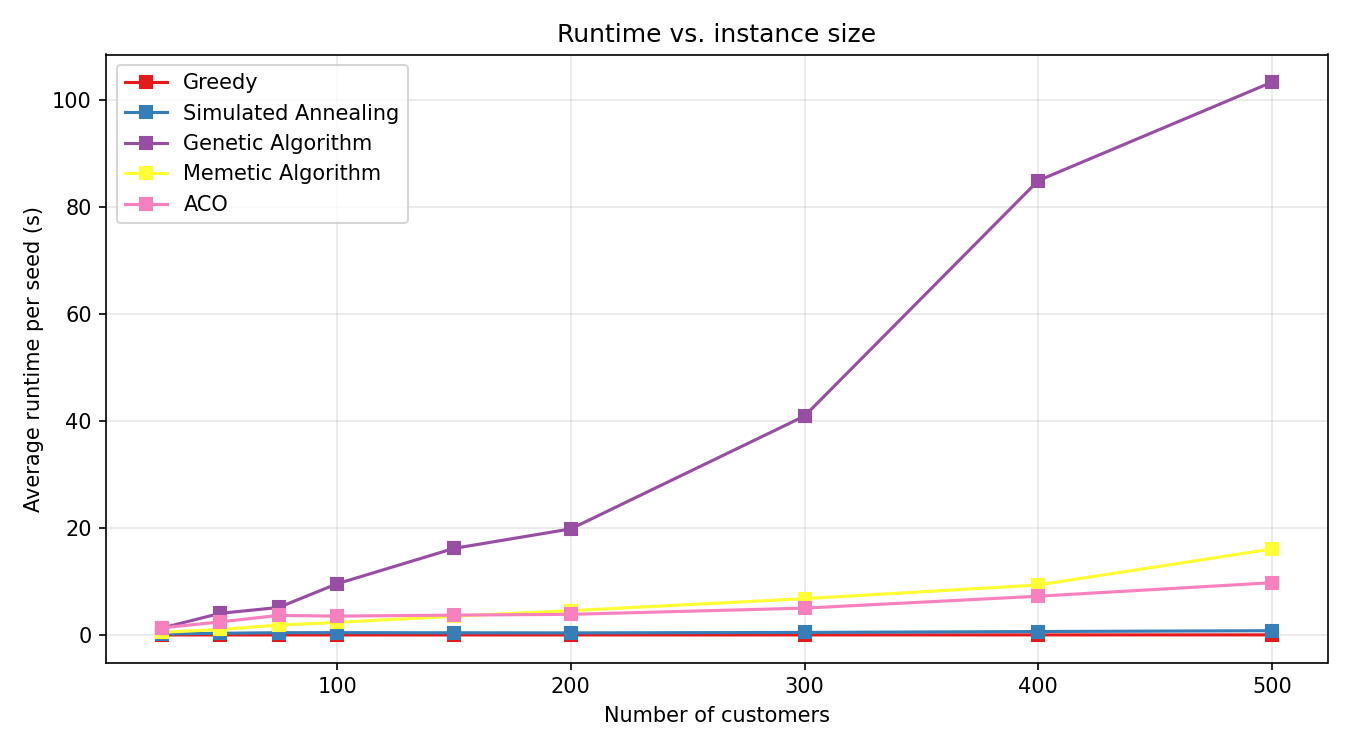
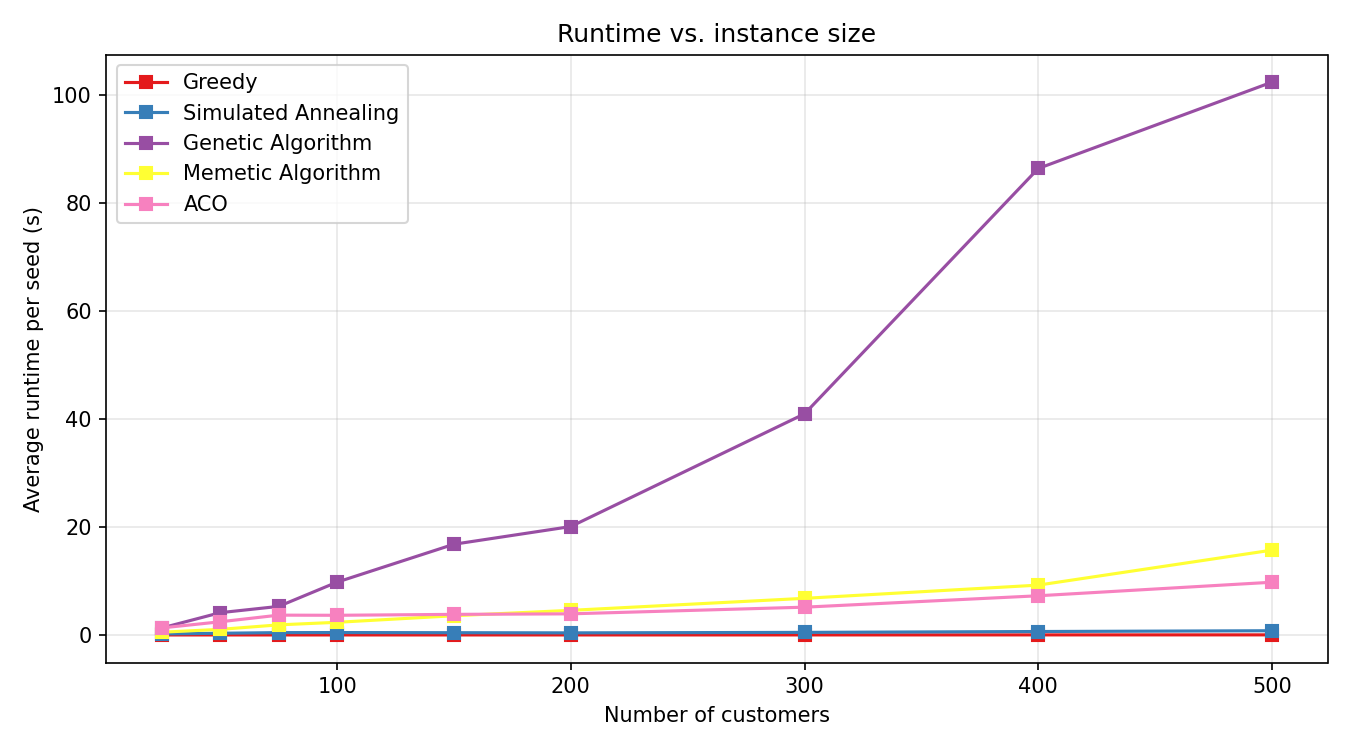
improved

diff --git a/EV_routing/scripts/scalability_analysis.py b/EV_routing/scripts/scalability_analysis.py
@@ -244,8 +244,13 @@ def _load_params(params_file: Path, data, ev_params, weights) -> dict:
 # Plotting
 # =============================================================================
 
+def _is_fully_feasible(r, n_seeds: int) -> bool:
+    return r.feasible_run_count == n_seeds
+
+
 def _plot_quality(instance_results: dict, algo_names: list[str]) -> None:
-    ns = [int(inst.split("_")[1]) for inst in INSTANCES if inst in instance_results]
+    """Per-algorithm subplots. Only feasible instances are plotted; infeasible
+    ones are marked with red dashed vertical lines so the y-axis stays readable."""
     colors = plt.cm.Set1(np.linspace(0, 0.8, len(algo_names)))
     FIGURES_DIR.mkdir(parents=True, exist_ok=True)
 
@@ -255,32 +260,144 @@ def _plot_quality(instance_results: dict, algo_names: list[str]) -> None:
     axes = np.array(axes).flatten()
 
     for ax, algo, color in zip(axes, algo_names, colors):
-        means = [
-            statistics.mean(instance_results[inst][algo].best_costs)
-            for inst in INSTANCES if inst in instance_results
-        ]
-        stds = [
-            instance_results[inst][algo].std_cost
-            for inst in INSTANCES if inst in instance_results
-        ]
-        ax.plot(ns, means, marker="o", color=color, linewidth=1.5)
-        ax.fill_between(
-            ns,
-            [m - s for m, s in zip(means, stds)],
-            [m + s for m, s in zip(means, stds)],
-            alpha=0.15, color=color,
-        )
+        feas_ns, feas_means, feas_stds = [], [], []
+        infeas_ns = []
+
+        for inst in INSTANCES:
+            if inst not in instance_results:
+                continue
+            n = int(inst.split("_")[1])
+            r = instance_results[inst][algo]
+            if _is_fully_feasible(r, len(SEEDS)):
+                feas_ns.append(n)
+                feas_means.append(r.average_cost)
+                feas_stds.append(r.std_cost)
+            else:
+                infeas_ns.append(n)
+
+        if feas_ns:
+            ax.plot(feas_ns, feas_means, marker="o", color=color, linewidth=1.5)
+            ax.fill_between(
+                feas_ns,
+                [m - s for m, s in zip(feas_means, feas_stds)],
+                [m + s for m, s in zip(feas_means, feas_stds)],
+                alpha=0.15, color=color,
+            )
+
+        for xn in infeas_ns:
+            ax.axvline(xn, color="red", linestyle="--", alpha=0.55, linewidth=1.0)
+            ax.text(xn, 0.02, "✗", transform=ax.get_xaxis_transform(),
+                    color="red", ha="center", va="bottom", fontsize=9)
+
+        if infeas_ns:
+            ax.axvline(-999, color="red", linestyle="--", alpha=0.55,
+                       linewidth=1.0, label="0 % feasible")
+            ax.legend(fontsize=8, loc="upper left")
+
         ax.set_title(algo)
         ax.set_xlabel("Number of customers")
-        ax.set_ylabel("Mean objective")
+        ax.set_ylabel("Mean objective (feasible runs only)")
         ax.grid(True, alpha=0.3)
 
     for ax in axes[len(algo_names):]:
         ax.set_visible(False)
 
-    fig.suptitle("Solution quality vs. instance size", fontsize=13, y=1.01)
+    fig.suptitle(
+        f"Solution quality vs. instance size\n"
+        f"Evaluation budget: {BASE_EVALS:,} evals at n={BASE_N}, scaled as {BASE_EVALS:,}×{BASE_N}/n",
+        fontsize=12,
+    )
     plt.tight_layout()
     fig.savefig(FIGURES_DIR / "quality_vs_size.png", dpi=150, bbox_inches="tight")
+    plt.close(fig)
+
+
+def _plot_improvement_over_greedy(instance_results: dict, algo_names: list[str]) -> None:
+    """% improvement over greedy for instances where BOTH greedy and the
+    algorithm are 100% feasible.  Puts all metaheuristics on a single shared
+    axis so relative rankings are directly visible."""
+    FIGURES_DIR.mkdir(parents=True, exist_ok=True)
+    fig, ax = plt.subplots(figsize=(10, 5))
+
+    greedy_name = "Greedy"
+    meta_names = [a for a in algo_names if a != greedy_name]
+    colors = plt.cm.Set1(np.linspace(0, 0.8, len(meta_names)))
+
+    for algo, color in zip(meta_names, colors):
+        plot_ns, plot_pcts = [], []
+        for inst in INSTANCES:
+            if inst not in instance_results:
+                continue
+            n = int(inst.split("_")[1])
+            gr = instance_results[inst].get(greedy_name)
+            ar = instance_results[inst][algo]
+            if (gr is not None
+                    and _is_fully_feasible(gr, len(SEEDS))
+                    and _is_fully_feasible(ar, len(SEEDS))):
+                pct = (gr.average_cost - ar.average_cost) / gr.average_cost * 100
+                plot_ns.append(n)
+                plot_pcts.append(pct)
+        if plot_ns:
+            ax.plot(plot_ns, plot_pcts, marker="o", color=color,
+                    linewidth=1.5, label=algo)
+            ax.fill_between(plot_ns, [0] * len(plot_ns), plot_pcts,
+                            alpha=0.07, color=color)
+
+    ax.axhline(0, color="gray", linestyle="--", linewidth=0.9, label="Greedy baseline")
+
+    # Annotate the budget-dependence finding at sf_BASE_N
+    ax.axvline(BASE_N, color="black", linestyle=":", alpha=0.4, linewidth=1.0)
+    ax.annotate(
+        f"n={BASE_N}: ranking reverses at ~45k evals\n(SA best in main experiment @ 150k evals)",
+        xy=(BASE_N, ax.get_ylim()[0] if ax.get_ylim()[0] > 0 else 2),
+        xytext=(BASE_N + 20, 5),
+        fontsize=7.5,
+        color="dimgray",
+        arrowprops=dict(arrowstyle="->", color="dimgray", lw=0.8),
+    )
+
+    ax.set_xlabel("Number of customers")
+    ax.set_ylabel("Improvement over Greedy (%)")
+    ax.set_title(
+        f"Improvement over greedy baseline  "
+        f"(budget: {BASE_EVALS:,}×{BASE_N}/n evals)\n"
+        "Only instances where greedy is 100 % feasible"
+    )
+    ax.legend()
+    ax.grid(True, alpha=0.3)
+    plt.tight_layout()
+    fig.savefig(FIGURES_DIR / "improvement_over_greedy.png", dpi=150, bbox_inches="tight")
+    plt.close(fig)
+
+
+def _plot_consistency(instance_results: dict, algo_names: list[str]) -> None:
+    """Coefficient of variation (std / mean × 100 %) per algorithm.
+    Lower CV = more reproducible results across seeds."""
+    FIGURES_DIR.mkdir(parents=True, exist_ok=True)
+    fig, ax = plt.subplots(figsize=(10, 5))
+    colors = plt.cm.Set1(np.linspace(0, 0.8, len(algo_names)))
+
+    for algo, color in zip(algo_names, colors):
+        cv_ns, cv_vals = [], []
+        for inst in INSTANCES:
+            if inst not in instance_results:
+                continue
+            n = int(inst.split("_")[1])
+            r = instance_results[inst][algo]
+            if _is_fully_feasible(r, len(SEEDS)) and r.average_cost > 0:
+                cv_ns.append(n)
+                cv_vals.append(r.std_cost / r.average_cost * 100)
+        if cv_ns:
+            ax.plot(cv_ns, cv_vals, marker="s", color=color,
+                    linewidth=1.5, label=algo)
+
+    ax.set_xlabel("Number of customers")
+    ax.set_ylabel("CV = std / mean  (%)")
+    ax.set_title("Algorithm consistency across seeds (lower = more reproducible)")
+    ax.legend()
+    ax.grid(True, alpha=0.3)
+    plt.tight_layout()
+    fig.savefig(FIGURES_DIR / "consistency_vs_size.png", dpi=150, bbox_inches="tight")
     plt.close(fig)
 
 
@@ -307,25 +424,37 @@ def _plot_runtime(instance_results: dict, algo_names: list[str]) -> None:
 
 
 def _plot_feasibility(instance_results: dict, algo_names: list[str]) -> None:
-    fig, ax = plt.subplots(figsize=(9, 5))
-    ns = [int(inst.split("_")[1]) for inst in INSTANCES if inst in instance_results]
-    colors = plt.cm.Set1(np.linspace(0, 0.8, len(algo_names)))
+    """Heatmap (algorithm × instance) coloured by feasibility rate.
+    Much easier to read than overlapping lines when many cells are 0 or 100 %."""
+    FIGURES_DIR.mkdir(parents=True, exist_ok=True)
+    inst_list = [inst for inst in INSTANCES if inst in instance_results]
+    ns_labels = [f"n={inst.split('_')[1]}" for inst in inst_list]
 
-    for algo, color in zip(algo_names, colors):
-        rates = [
-            instance_results[inst][algo].feasible_run_count / len(SEEDS) * 100
-            for inst in INSTANCES if inst in instance_results
-        ]
-        ax.plot(ns, rates, marker="^", label=algo, color=color)
+    matrix = np.array([
+        [instance_results[inst][algo].feasible_run_count / len(SEEDS) * 100
+         for inst in inst_list]
+        for algo in algo_names
+    ])
 
-    ax.set_xlabel("Number of customers")
-    ax.set_ylabel("Feasibility rate (%)")
-    ax.set_ylim(-5, 105)
-    ax.set_title("Feasibility rate vs. instance size")
-    ax.legend()
-    ax.grid(True, alpha=0.3)
+    fig, ax = plt.subplots(figsize=(max(10, len(inst_list) * 1.1), len(algo_names) * 0.9 + 1))
+    im = ax.imshow(matrix, aspect="auto", cmap="RdYlGn", vmin=0, vmax=100)
+    plt.colorbar(im, ax=ax, label="Feasibility rate (%)")
+
+    ax.set_xticks(range(len(inst_list)))
+    ax.set_xticklabels(ns_labels, rotation=45, ha="right")
+    ax.set_yticks(range(len(algo_names)))
+    ax.set_yticklabels(algo_names)
+
+    for i in range(len(algo_names)):
+        for j in range(len(inst_list)):
+            v = matrix[i, j]
+            txt_color = "white" if v < 50 else "black"
+            ax.text(j, i, f"{v:.0f}%", ha="center", va="center",
+                    fontsize=9, color=txt_color, fontweight="bold")
+
+    ax.set_title("Feasibility rate (%) — algorithm × instance size")
     plt.tight_layout()
-    fig.savefig(FIGURES_DIR / "feasibility_vs_size.png", dpi=150)
+    fig.savefig(FIGURES_DIR / "feasibility_heatmap.png", dpi=150, bbox_inches="tight")
     plt.close(fig)
 
 
@@ -471,6 +600,8 @@ def main() -> None:
     print("\n" + "=" * 60)
     print("Saving plots and tables …")
     _plot_quality(instance_results, algo_names)
+    _plot_improvement_over_greedy(instance_results, algo_names)
+    _plot_consistency(instance_results, algo_names)
     _plot_runtime(instance_results, algo_names)
     _plot_feasibility(instance_results, algo_names)
     _save_csv_and_table(instance_results, algo_names)

diff --git a/EV_routing/scripts/regen_scalability_plots.py b/EV_routing/scripts/regen_scalability_plots.py
@@ -1,0 +1,95 @@
+"""
+Regenerate scalability plots from the existing CSV without re-running algorithms.
+
+Run from project root:
+    PYTHONPATH=EV_routing python EV_routing/scripts/regen_scalability_plots.py
+"""
+from __future__ import annotations
+
+import sys
+from pathlib import Path
+from types import SimpleNamespace
+
+import pandas as pd
+
+sys.path.insert(0, str(Path(__file__).resolve().parents[1]))
+
+# Import plot functions and config from scalability_analysis
+from scripts.scalability_analysis import (
+    INSTANCES, FIGURES_DIR,
+    _plot_quality, _plot_improvement_over_greedy,
+    _plot_consistency, _plot_runtime, _plot_feasibility,
+)
+
+CSV_PATH = Path("EV_routing/results/scalability/scalability_results.csv")
+
+
+def _build_instance_results(df: pd.DataFrame) -> tuple[dict, list[str]]:
+    """Reconstruct the instance_results dict from a CSV row using SimpleNamespace."""
+    instance_results: dict = {}
+    algo_order: list[str] = []
+
+    for inst in INSTANCES:
+        subset = df[df["instance"] == inst]
+        if subset.empty:
+            continue
+        instance_results[inst] = {}
+        for _, row in subset.iterrows():
+            algo = row["algorithm"]
+            if algo not in algo_order:
+                algo_order.append(algo)
+            n_seeds = max(1, round(row["feasible_pct"] / 100 * 3))  # approximate
+            total_seeds = 3
+            feasible_count = round(row["feasible_pct"] / 100 * total_seeds)
+
+            r = SimpleNamespace(
+                algorithm_name=algo,
+                average_cost=row["mean"],
+                std_cost=row["std"],
+                best_costs=[row["best"], row["mean"], row["median"]],
+                average_runtime=row["avg_runtime_s"],
+                feasible_run_count=feasible_count,
+            )
+            # Patch in the properties that plot functions access
+            r.feasible_run_count = feasible_count
+            instance_results[inst][algo] = r
+
+    return instance_results, algo_order
+
+
+# Monkey-patch len(SEEDS) to 3 so _is_fully_feasible threshold is correct
+import scripts.scalability_analysis as _sa_mod
+_sa_mod.SEEDS = [0, 1, 2]
+
+
+def main() -> None:
+    if not CSV_PATH.exists():
+        print(f"CSV not found: {CSV_PATH}")
+        return
+
+    df = pd.read_csv(CSV_PATH)
+    # Rename columns to match what the script expects
+    df = df.rename(columns={"algorithm": "algorithm"})
+    # Normalise algorithm names to match what main run produces
+    name_map = {
+        "Simulated Annealing": "Simulated Annealing",
+        "Genetic Algorithm": "Genetic Algorithm",
+        "Memetic Algorithm": "Memetic Algorithm",
+        "ACO": "ACO",
+        "Greedy": "Greedy",
+    }
+    df["algorithm"] = df["algorithm"].map(name_map).fillna(df["algorithm"])
+
+    instance_results, algo_names = _build_instance_results(df)
+
+    FIGURES_DIR.mkdir(parents=True, exist_ok=True)
+    _plot_quality(instance_results, algo_names)
+    _plot_improvement_over_greedy(instance_results, algo_names)
+    _plot_consistency(instance_results, algo_names)
+    _plot_runtime(instance_results, algo_names)
+    _plot_feasibility(instance_results, algo_names)
+    print(f"Plots regenerated → {FIGURES_DIR}/")
+
+
+if __name__ == "__main__":
+    main()

diff --git a/EV_routing/main.py b/EV_routing/main.py
@@ -285,7 +285,7 @@ def main() -> None:
     # 3. Box plots — all algorithms including greedy baseline
     plot_box_comparison(
         all_results,
-        title="Solution quality distribution across 10 seeds",
+        title=f"Solution quality distribution — {len(SEEDS)} seeds, budget={MAX_EVALS:,} evals",
         save_path=FIGURES_DIR / "box_comparison.png",
         show=False,
     )